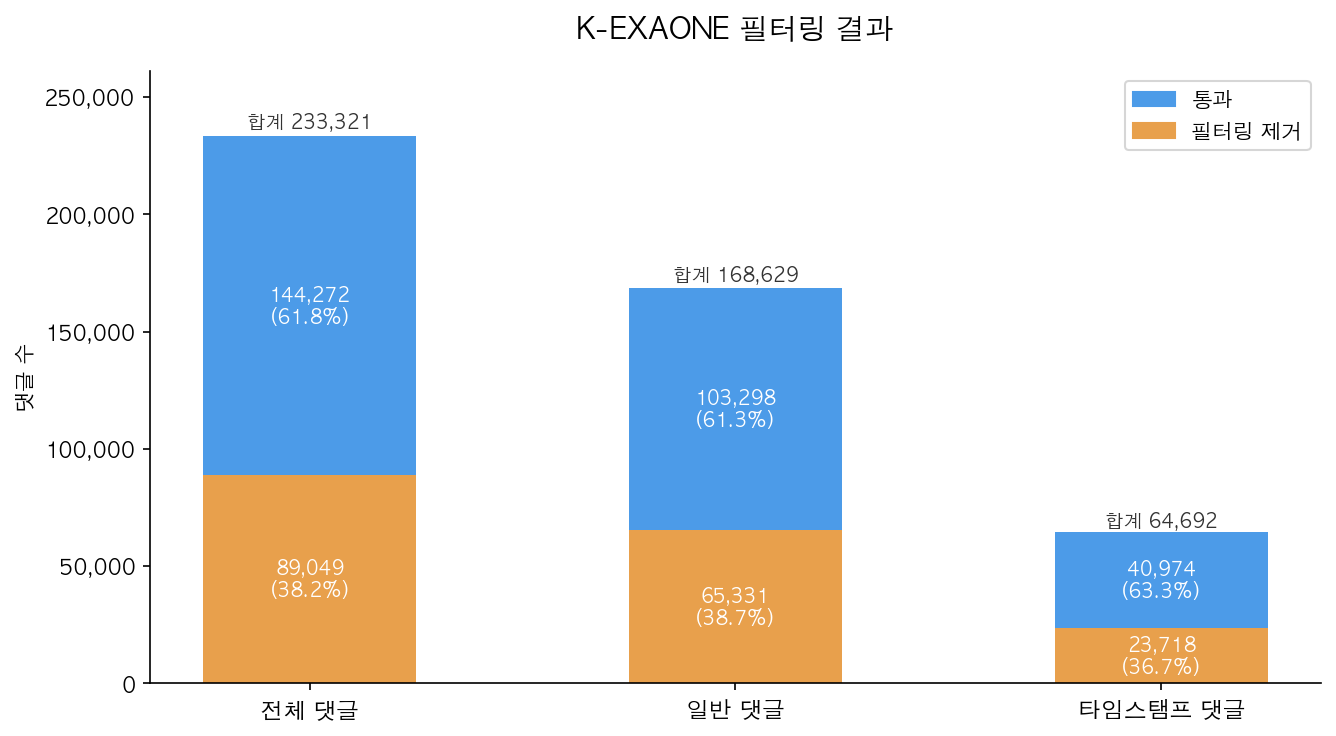
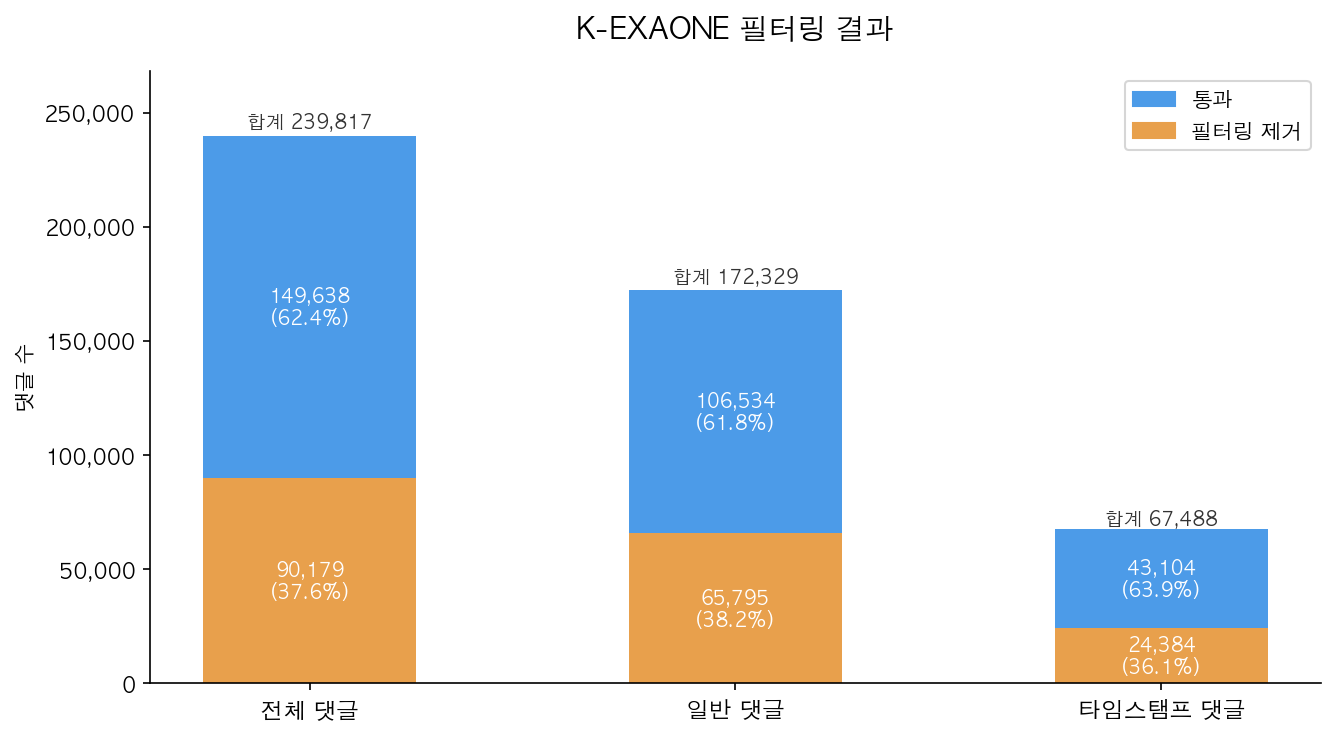
README + score distribution skill updated

diff --git a/.claude/skills/visualize-filtering-result/visualize_filtering_result.py b/.claude/skills/visualize-filtering-result/visualize_filtering_result.py
@@ -1,28 +1,51 @@
 import json
+from collections import defaultdict
+
 import matplotlib.pyplot as plt
 import matplotlib.patches as mpatches
 from matplotlib import rcParams
 
-OUTPUT_PATH = 'assets/filtering_result.png'
+OUTPUT_FILTER = 'assets/filtering_result.png'
+OUTPUT_SCORES = 'assets/score_distribution.png'
 FILTERED_PATH = 'data/filtered_comments_kexaone_kkp.jsonl'
 
+SCORE_METRICS = ['total_score', 'info', 'opinion', 'relevance']
+METRIC_LABELS = {
+    'total_score': 'Total Score',
+    'info': 'Info',
+    'opinion': 'Opinion',
+    'relevance': 'Relevance',
+}
 
-def load_stats(path: str) -> dict:
-    """filtered_comments JSONL에서 전체/통과 댓글 수를 집계한다.
+COLOR_PASS = '#4C9BE8'
+COLOR_FAIL = '#E8A04C'
+COLOR_ALL = '#6DBE6D'
+COLOR_GENERAL = '#4C9BE8'
+COLOR_TIMESTAMP = '#E87B4C'
+
+
+def load_data(path: str) -> dict:
+    """filtered_comments JSONL에서 통계 및 점수 분포를 수집한다.
 
     Args:
         path: filtered_comments_kexaone_kkp.jsonl 경로.
 
     Returns:
         {
-            'general_total': int,
-            'general_pass': int,
-            'timestamp_total': int,
-            'timestamp_pass': int,
+            'general_total': int, 'general_pass': int,
+            'timestamp_total': int, 'timestamp_pass': int,
+            'scores': {
+                'general':   {'total_score': [...], 'info': [...], 'opinion': [...], 'relevance': [...]},
+                'timestamp': {'total_score': [...], 'info': [...], 'opinion': [...], 'relevance': [...]},
+            }
         }
     """
     general_total = general_pass = 0
     timestamp_total = timestamp_pass = 0
+    scores = {
+        'general': defaultdict(list),
+        'timestamp': defaultdict(list),
+    }
 
     with open(path) as f:
         for line in f:
@@ -31,70 +54,71 @@ def load_stats(path: str) -> dict:
                 continue
             obj = json.loads(line)
             er = obj.get('evaluation_result', {})
+
             for c in er.get('general_comments', []):
                 general_total += 1
                 if c.get('is_pass'):
                     general_pass += 1
+                scores['general']['total_score'].append(c.get('total_score'))
+                for m in ('info', 'opinion', 'relevance'):
+                    scores['general'][m].append(c.get('scores', {}).get(m))
+
             for c in er.get('timestamp_comments', []):
                 timestamp_total += 1
                 if c.get('is_pass'):
                     timestamp_pass += 1
+                scores['timestamp']['total_score'].append(c.get('total_score'))
+                for m in ('info', 'opinion', 'relevance'):
+                    scores['timestamp'][m].append(c.get('scores', {}).get(m))
 
     return {
         'general_total': general_total,
         'general_pass': general_pass,
         'timestamp_total': timestamp_total,
         'timestamp_pass': timestamp_pass,
+        'scores': scores,
     }
 
 
-def draw_chart(stats: dict, output_path: str) -> None:
-    """필터링 결과를 막대 차트로 저장한다.
+def draw_filter_chart(data: dict, output_path: str) -> None:
+    """필터링 결과를 누적 막대 차트로 저장한다.
 
     Args:
-        stats: load_stats() 결과.
+        data: load_data() 결과.
         output_path: 저장할 이미지 경로.
     """
     rcParams['font.family'] = 'AppleGothic'
     rcParams['axes.unicode_minus'] = False
 
-    total_total = stats['general_total'] + stats['timestamp_total']
-    total_pass = stats['general_pass'] + stats['timestamp_pass']
+    total_total = data['general_total'] + data['timestamp_total']
+    total_pass = data['general_pass'] + data['timestamp_pass']
     total_fail = total_total - total_pass
-
-    g_pass = stats['general_pass']
-    g_fail = stats['general_total'] - g_pass
-
-    t_pass = stats['timestamp_pass']
-    t_fail = stats['timestamp_total'] - t_pass
+    g_pass = data['general_pass']
+    g_fail = data['general_total'] - g_pass
+    t_pass = data['timestamp_pass']
+    t_fail = data['timestamp_total'] - t_pass
 
     labels = ['전체 댓글', '일반 댓글', '타임스탬프 댓글']
     passes = [total_pass, g_pass, t_pass]
     fails = [total_fail, g_fail, t_fail]
-    totals = [total_total, stats['general_total'], stats['timestamp_total']]
-
-    COLOR_PASS = '#4C9BE8'
-    COLOR_FAIL = '#E8A04C'
+    totals = [total_total, data['general_total'], data['timestamp_total']]
 
     fig, ax = plt.subplots(figsize=(9, 5))
     x = range(len(labels))
     bar_width = 0.5
 
-    bars_fail = ax.bar(x, fails, bar_width, label='필터링 제거', color=COLOR_FAIL)
-    bars_pass = ax.bar(x, passes, bar_width, bottom=fails, label='통과', color=COLOR_PASS)
+    ax.bar(x, fails, bar_width, color=COLOR_FAIL)
+    ax.bar(x, passes, bar_width, bottom=fails, color=COLOR_PASS)
 
     for i, (p, f, total) in enumerate(zip(passes, fails, totals)):
         pass_pct = p / total * 100 if total else 0
         fail_pct = f / total * 100 if total else 0
-        # 제거 영역 라벨
         if f > 0:
             ax.text(i, f / 2, f'{f:,}\n({fail_pct:.1f}%)',
                     ha='center', va='center', fontsize=9, color='white', fontweight='bold')
-        # 통과 영역 라벨
         if p > 0:
             ax.text(i, f + p / 2, f'{p:,}\n({pass_pct:.1f}%)',
                     ha='center', va='center', fontsize=9, color='white', fontweight='bold')
-        # 합계 라벨 (막대 위)
         ax.text(i, total + total * 0.01, f'합계 {total:,}',
                 ha='center', va='bottom', fontsize=9, color='#333333')
 
@@ -115,16 +139,112 @@ def draw_chart(stats: dict, output_path: str) -> None:
     plt.close()
 
 
-if __name__ == '__main__':
-    stats = load_stats(FILTERED_PATH)
+def _score_freq(values: list) -> dict:
+    """값 목록에서 각 점수의 빈도를 반환한다.
 
-    total_total = stats['general_total'] + stats['timestamp_total']
-    total_pass = stats['general_pass'] + stats['timestamp_pass']
+    Args:
+        values: 점수 값 목록 (None 포함 가능).
+
+    Returns:
+        {score_value: count} dict (None 제외).
+    """
+    freq = defaultdict(int)
+    for v in values:
+        if v is not None:
+            freq[v] += 1
+    return freq
+
+
+def draw_score_distribution(data: dict, output_path: str) -> None:
+    """total_score·info·opinion·relevance 분포를 4개 서브플롯으로 저장한다.
+
+    각 서브플롯은 전체(초록)/일반(파랑)/타임스탬프(주황) 세 그룹을 묶음 막대로 표시한다.
+
+    Args:
+        data: load_data() 결과.
+        output_path: 저장할 이미지 경로.
+    """
+    rcParams['font.family'] = 'AppleGothic'
+    rcParams['axes.unicode_minus'] = False
+
+    scores = data['scores']
+    all_scores = {
+        m: scores['general'][m] + scores['timestamp'][m]
+        for m in SCORE_METRICS
+    }
+
+    fig, axes = plt.subplots(1, 4, figsize=(18, 5))
+    fig.suptitle('K-EXAONE 점수 분포 (전체 / 일반 / 타임스탬프)',
+                 fontsize=14, fontweight='bold', y=1.02)
+
+    w = 0.26
+    for ax, metric in zip(axes, SCORE_METRICS):
+        freq_all = _score_freq(all_scores[metric])
+        freq_gen = _score_freq(scores['general'][metric])
+        freq_ts = _score_freq(scores['timestamp'][metric])
+
+        all_keys = sorted(set(freq_all) | set(freq_gen) | set(freq_ts))
+        x = range(len(all_keys))
+
+        ax.bar([i - w for i in x], [freq_all.get(k, 0) for k in all_keys],
+               width=w, color=COLOR_ALL, label='전체')
+        ax.bar([i for i in x], [freq_gen.get(k, 0) for k in all_keys],
+               width=w, color=COLOR_GENERAL, label='일반')
+        ax.bar([i + w for i in x], [freq_ts.get(k, 0) for k in all_keys],
+               width=w, color=COLOR_TIMESTAMP, label='타임스탬프')
+
+        ax.set_xticks(list(x))
+        ax.set_xticklabels([str(k) for k in all_keys], fontsize=9)
+        ax.set_title(METRIC_LABELS[metric], fontsize=12, fontweight='bold', pad=8)
+        ax.set_xlabel('점수', fontsize=9)
+        ax.set_ylabel('댓글 수', fontsize=9)
+        ax.yaxis.set_major_formatter(plt.FuncFormatter(lambda v, _: f'{int(v):,}'))
+        ax.spines[['top', 'right']].set_visible(False)
+        ax.legend(fontsize=8)
+
+    plt.tight_layout()
+    plt.savefig(output_path, dpi=150, bbox_inches='tight')
+    plt.close()
+
+
+def _print_score_summary(label: str, values: list) -> None:
+    """점수 목록의 평균·최솟값·최댓값을 출력한다.
+
+    Args:
+        label: 출력 레이블.
+        values: 점수 값 목록.
+    """
+    valid = [v for v in values if v is not None]
+    if not valid:
+        print(f"  {label}: 데이터 없음")
+        return
+    avg = sum(valid) / len(valid)
+    print(f"  {label}: 평균 {avg:.2f}  최솟값 {min(valid)}  최댓값 {max(valid)}  (n={len(valid):,})")
+
+
+if __name__ == '__main__':
+    data = load_data(FILTERED_PATH)
+
+    total_total = data['general_total'] + data['timestamp_total']
+    total_pass = data['general_pass'] + data['timestamp_pass']
 
     print("=== 필터링 결과 ===")
     print(f"전체 댓글    : {total_total:>8,}개  통과 {total_pass:,} ({total_pass/total_total*100:.1f}%)  제거 {total_total-total_pass:,} ({(total_total-total_pass)/total_total*100:.1f}%)")
-    print(f"일반 댓글    : {stats['general_total']:>8,}개  통과 {stats['general_pass']:,} ({stats['general_pass']/stats['general_total']*100:.1f}%)  제거 {stats['general_total']-stats['general_pass']:,} ({(stats['general_total']-stats['general_pass'])/stats['general_total']*100:.1f}%)")
-    print(f"타임스탬프   : {stats['timestamp_total']:>8,}개  통과 {stats['timestamp_pass']:,} ({stats['timestamp_pass']/stats['timestamp_total']*100:.1f}%)  제거 {stats['timestamp_total']-stats['timestamp_pass']:,} ({(stats['timestamp_total']-stats['timestamp_pass'])/stats['timestamp_total']*100:.1f}%)")
+    print(f"일반 댓글    : {data['general_total']:>8,}개  통과 {data['general_pass']:,} ({data['general_pass']/data['general_total']*100:.1f}%)  제거 {data['general_total']-data['general_pass']:,} ({(data['general_total']-data['general_pass'])/data['general_total']*100:.1f}%)")
+    print(f"타임스탬프   : {data['timestamp_total']:>8,}개  통과 {data['timestamp_pass']:,} ({data['timestamp_pass']/data['timestamp_total']*100:.1f}%)  제거 {data['timestamp_total']-data['timestamp_pass']:,} ({(data['timestamp_total']-data['timestamp_pass'])/data['timestamp_total']*100:.1f}%)")
 
-    draw_chart(stats, OUTPUT_PATH)
-    print(f"\n차트 저장 완료: {OUTPUT_PATH}")
+    scores = data['scores']
+    all_scores = {m: scores['general'][m] + scores['timestamp'][m] for m in SCORE_METRICS}
+
+    print("\n=== 점수 분포 요약 ===")
+    for metric in SCORE_METRICS:
+        print(f"[{METRIC_LABELS[metric]}]")
+        _print_score_summary('전체      ', all_scores[metric])
+        _print_score_summary('일반      ', scores['general'][metric])
+        _print_score_summary('타임스탬프', scores['timestamp'][metric])
+
+    draw_filter_chart(data, OUTPUT_FILTER)
+    print(f"\n필터링 차트 저장 완료: {OUTPUT_FILTER}")
+
+    draw_score_distribution(data, OUTPUT_SCORES)
+    print(f"점수 분포 차트 저장 완료: {OUTPUT_SCORES}")

diff --git a/.claude/skills/visualize-filtering-result/SKILL.md b/.claude/skills/visualize-filtering-result/SKILL.md
@@ -1,12 +1,14 @@
 ---
 name: visualize-filtering-result
-description: filtered_comments_kexaone_kkp.jsonl의 필터링 결과를 전체/일반/타임스탬프 댓글 기준으로 시각화할 때 사용한다.
+description: filtered_comments_kexaone_kkp.jsonl의 필터링 결과 및 점수(total_score·info·opinion·relevance) 분포를 전체/일반/타임스탬프 댓글 기준으로 시각화할 때 사용한다.
 ---
 
 # visualize-filtering-result
 
-`data/filtered_comments_kexaone_kkp.jsonl`의 `is_pass` 값을 집계해
-전체 댓글, 일반 댓글, 타임스탬프 댓글 각각의 통과/제거 비율을 막대 차트로 시각화한다.
+`data/filtered_comments_kexaone_kkp.jsonl`을 집계해 두 가지 차트를 생성한다.
+
+1. **필터링 결과** — 전체·일반·타임스탬프 댓글의 통과/제거 비율 (누적 막대 차트)
+2. **점수 분포** — `total_score`, `info`, `opinion`, `relevance` 각각의 점수별 빈도 (묶음 막대 차트, 전체/일반/타임스탬프 3개 그룹 비교)
 
 ## 실행 방법
 
@@ -20,8 +22,9 @@ python3 .claude/skills/visualize-filtering-result/visualize_filtering_result.py
 
 | 항목 | 내용 |
 |---|---|
-| 콘솔 | 전체/일반/타임스탬프 댓글의 통과·제거 수 및 비율 |
-| 이미지 | `assets/filtering_result.png` (누적 막대 차트) |
+| 콘솔 | 필터링 통과·제거 수 및 점수 평균/최솟값/최댓값 요약 |
+| `assets/filtering_result.png` | 통과/제거 누적 막대 차트 |
+| `assets/score_distribution.png` | total_score·info·opinion·relevance 점수 분포 차트 |
 
 ### 콘솔 출력 예시
 
@@ -30,11 +33,22 @@ python3 .claude/skills/visualize-filtering-result/visualize_filtering_result.py
 전체 댓글    :   150,000개  통과 72,000 (48.0%)  제거 78,000 (52.0%)
 일반 댓글    :   100,000개  통과 50,000 (50.0%)  제거 50,000 (50.0%)
 타임스탬프   :    50,000개  통과 22,000 (44.0%)  제거 28,000 (56.0%)
+
+=== 점수 분포 요약 ===
+[Total Score]
+  전체      : 평균 6.12  최솟값 3  최댓값 9  (n=150,000)
+  일반      : 평균 5.80  최솟값 3  최댓값 9  (n=100,000)
+  타임스탬프: 평균 6.74  최솟값 3  최댓값 9  (n=50,000)
+...
 ```
 
 ## 집계 기준
 
-| filtered 파일 필드 | 의미 |
+| 필드 | 의미 |
 |---|---|
 | `evaluation_result.general_comments[].is_pass` | 일반 댓글 통과 여부 |
 | `evaluation_result.timestamp_comments[].is_pass` | 타임스탬프 댓글 통과 여부 |
+| `evaluation_result.*.total_score` | 댓글 총점 |
+| `evaluation_result.*.scores.info` | 정보성 점수 |
+| `evaluation_result.*.scores.opinion` | 의견성 점수 |
+| `evaluation_result.*.scores.relevance` | 관련성 점수 |

diff --git a/README.md b/README.md
@@ -177,15 +177,28 @@ JSONL 형식으로 영상 1개당 1줄씩 저장됩니다.
 
 ## 현재 필터링 현황
 
-> 마지막 업데이트: 2026-04-23 · 평가 완료 영상 1,756개 기준
+> 마지막 업데이트: 2026-04-23 · 평가 완료 영상 1,784개 기준
+
+### 통과 / 제거 비율
 
 ![필터링 결과](assets/filtering_result.png)
 
 | 구분 | 전체 | 통과 | 제거 |
 |---|---|---|---|
-| 전체 댓글 | 233,321 | 144,272 (61.8%) | 89,049 (38.2%) |
-| 일반 댓글 | 168,629 | 103,298 (61.3%) | 65,331 (38.7%) |
-| 타임스탬프 댓글 | 64,692 | 40,974 (63.3%) | 23,718 (36.7%) |
+| 전체 댓글 | 239,817 | 149,638 (62.4%) | 90,179 (37.6%) |
+| 일반 댓글 | 172,329 | 106,534 (61.8%) | 65,795 (38.2%) |
+| 타임스탬프 댓글 | 67,488 | 43,104 (63.9%) | 24,384 (36.1%) |
+
+### 점수 분포 (total\_score · info · opinion · relevance)
+
+![점수 분포](assets/score_distribution.png)
+
+| 지표 | 전체 평균 | 일반 평균 | 타임스탬프 평균 |
+|---|---|---|---|
+| Total Score | 6.26 | 6.26 | 6.26 |
+| Info | 1.69 | 1.70 | 1.66 |
+| Opinion | 2.26 | 2.28 | 2.19 |
+| Relevance | 2.32 | 2.28 | 2.42 |
 
 차트는 `visualize-filtering-result` 스킬로 재생성할 수 있습니다.
 
@@ -222,7 +235,7 @@ python3 .claude/skills/compare-comment-counts/compare_comment_counts.py
 
 ## 필터링 결과 시각화 (visualize-filtering-result)
 
-필터링 결과를 전체·일반·타임스탬프 댓글 기준으로 통과/제거 비율 차트로 시각화하는 도구입니다.
+필터링 결과 및 점수 분포를 전체·일반·타임스탬프 댓글 기준으로 시각화하는 도구입니다.
 
 ### 실행
 
@@ -234,5 +247,6 @@ python3 .claude/skills/visualize-filtering-result/visualize_filtering_result.py
 
 | 항목 | 내용 |
 |---|---|
-| 콘솔 | 전체/일반/타임스탬프 댓글의 통과·제거 수 및 비율 |
-| 이미지 | `data/filtering_result.png` (누적 막대 차트, 실행 시 덮어씀) |
+| 콘솔 | 필터링 통과·제거 수 및 지표별 평균/최솟값/최댓값 요약 |
+| `assets/filtering_result.png` | 통과/제거 누적 막대 차트 |
+| `assets/score_distribution.png` | total\_score·info·opinion·relevance 점수 분포 차트 |
